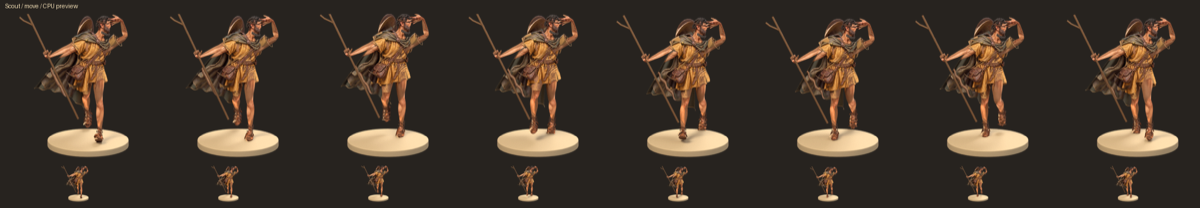
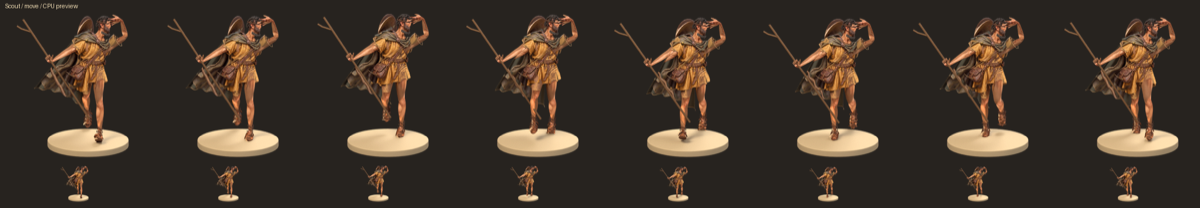
3D spearman interim review images

diff --git a/tools/art/anim3d/review/scout-log.md b/tools/art/anim3d/review/scout-log.md
@@ -126,3 +126,8 @@ Rendered e-move 512 px CYCLES/CPU
 Rendered e-attack 512 px CYCLES/CPU
 Rendered e-hit 512 px CYCLES/CPU
 Rendered e-death 512 px CYCLES/CPU
+Rendered e-move 512 px CYCLES/CPU
+Driver round 2 geometry: narrowed/turned complete hat; reshaped the full-depth cowl to the source drape instead of a horizontal collar; fitted raised sleeve; lengthened raised calf 16% with foot scale inheritance disabled and moved ankle to painting/base edge. Added stone pigment grain. Preserved original bevels/straps/folds, real AO/curvature, generated fills and product lights.
+Driver round 2 pigment: hard colour masks were discarding warm cowl highlights; replaced with feathered spatial garment masks. Same frozen camera UVs and automatic rest histogram grade; no alpha cutout mesh, billboard or per-frame reprojection. First 512px CPU check removes major colour islands but face/hand/cowl tailoring still visibly differs at 256px. 64px scout identity improved, not identical.
+Driver round 2 motion: pinned/verified existing CC0 Quaternius Standard glTF/bin/LICENSE; idle, walk, hit and death retargeted with rest/reference/roll calibration. Authored staff attack and cloth-contact shapes retained. Inspected all five strips and front/top feet. Walk follows source toe tuck; translation-only virtual-ground stance residual under 0.000001m, lateral toe displacement 0.0032m, no post-retarget foot rotation.
+Driver round 2 full CPU pass first found move/0 staff clipping at y=0 despite fitting atlas budget (184920 bytes/Q75). Validator correctly rejected it. Lowered the staff-carrying arm reference before source sampling; rerendering only move, then feet/pack/validation.

diff --git a/tools/art/anim3d/review/spartan-hoplite-log.md b/tools/art/anim3d/review/spartan-hoplite-log.md
@@ -121,3 +121,4 @@ Final resumed round2 CPU: all40 RGBA256/CyclesCPU12; all b/c/c-details/d/e/f/g i
 Final visual verdict NO PASS: at256 crest/stance/cream improve, but helmet/gaze, mantle neckline, linen folds and skin are still less rich than painting; at64 same identity but distinguishable contour/finish. Death now lies supine, though source-paint stretch and the landing behind the disc still need GPU review. New512 masters intentionally pending lead GPU pass; previousGPU masters preserved. Unit feedback absent at final recheck; common feedback through23 read.
 Final code checks:19 Python files parse; shellsyntax/executable/whitespace pass; currentfilehygiene27files/0 findings; publicclaims PASS. GPU provenance gate correctly rejects absent fresh512 output. origin/master is already ancestor of HEAD (0 commits to merge). No engine/UI changes; no PASS, upload, push or PR.
 Commit attempt: git add denied creating .git/worktrees/lane-15/index.lock (Operation not permitted). Changes left uncommitted for runner; exact requested coauthor message saved in tmp/spartan-driver-round2-commit.txt. No commit/push/PR occurred.
+Baked clip idle
